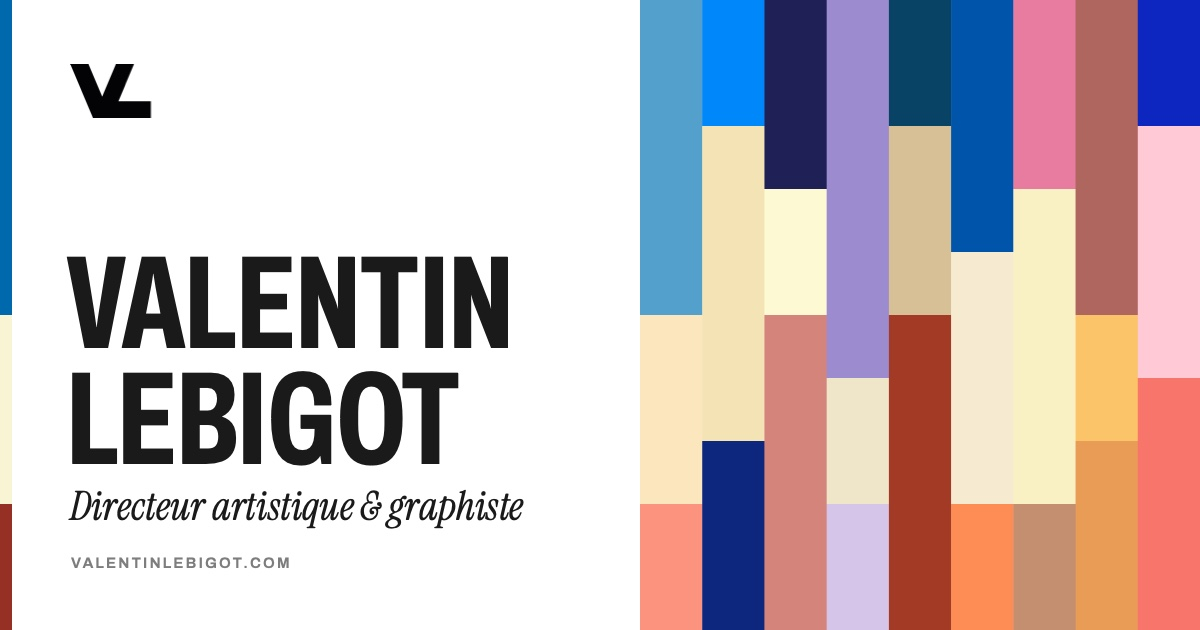
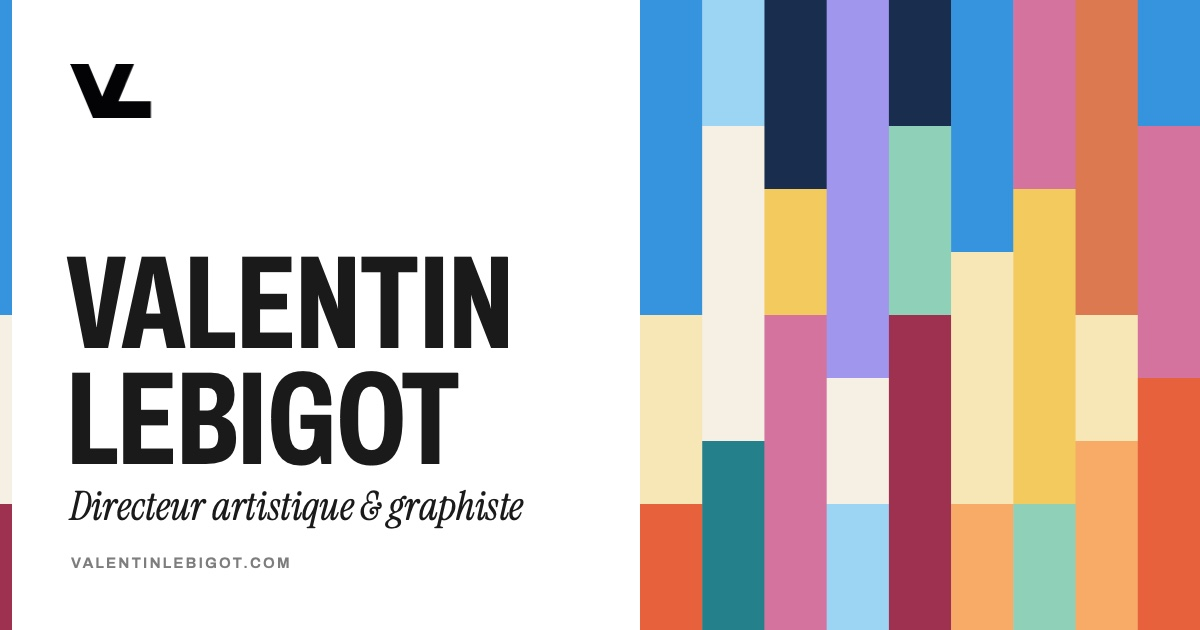
Palette unique de 14 teintes (éditoriale) appliquée à tout le site
- Une seule palette pour l'intro, le spectre, les rails et les lignes
- Trois teintes fortes par projet, jamais deux teintes identiques côte à côte
- Ordre des teintes et position des teintes claires tirés au hasard
- Image de partage régénérée

diff --git a/js/main.js b/js/main.js
@@ -7,71 +7,95 @@
   const v = (name, poster) => ({ video: A + 'video/' + name, poster: A + 'img/' + poster });
   const i = name => A + 'img/' + name;
 
+  /* Palette du site : 15 teintes, les seules utilisées partout (intro, projets, lignes, rail). */
+  const T = {
+    encre: '#14213d',   // Bleu encre
+    ceruleen: '#2c7fd6',   // Céruléen
+    sky: '#8ccbf0',   // Sky blue
+    canard: '#1f6f78',   // Bleu canard
+    sauge: '#7fc8a9',   // Vert d’eau
+    lavande: '#8f7fe8',   // Lavande
+    prunerose: '#c95b8e',   // Prune rose
+    vermillon: '#e04a2f',   // Vermillon
+    grenat: '#8b1e3f',   // Grenat
+    sienne: '#d2643f',   // Sienne brûlée
+    abricot: '#f39a54',   // Abricot
+    safran: '#efc04b',   // Safran
+    paille: '#f5e3a8',   // Paille
+    creme: '#f3ebdc',   // Crème
+  };
+
   const PROJECTS = [
     {
-      id: 'collection-produit', year: '2020', role: 'Branding & Design global', colors: ['#448ec0', '#f9e1af', '#f87e6c'],
+      id: 'collection-produit', year: '2020', role: 'Branding & Design global', colors: [T.ceruleen, T.paille, T.vermillon],
       title: 'Collection Produit', sub: 'Valentin Lebigot',
       desc: 'Depuis 2020 à Paris, Valentin Lebigot crée des objets 3D recyclables au design audacieux et coloré. Chaque pièce reflète une démarche responsable, pensée pour une clientèle sensible au design contemporain et éthique.',
       tags: ['designproduits', 'directionartistiques', 'impression3D', 'objetsgraphiques', 'packaging', 'designresponsable'],
       media: [i('21-10-2025_Portfolio_graphisme5.jpg'), i('21-10-2025_Portfolio_graphisme.jpg'), i('21-10-2025_Portfolio_graphisme4.jpg'), i('21-10-2025_Portfolio_graphisme2.jpg'), v('Composition-5.mp4', 'Composition-5.jpg'), i('21-10-2025_Portfolio_graphisme3.jpg')],
     },
     {
-      id: 'strategie-communication', year: '2020', role: 'Graphisme & Social media', colors: ['#006ff7', '#f1dfa6', '#0c186c'],
+      id: 'strategie-communication', year: '2020', role: 'Graphisme & Social media', colors: [T.sky, T.creme, T.canard],
       title: 'Stratégie & communication', sub: 'Valentin Lebigot',
       desc: 'Univers digital pensé comme un ensemble cohérent : site e-shop WordPress, UX/UI, réseaux sociaux, newsletters et Ads. Chaque point de contact prolonge l’identité visuelle et assure une expérience de marque claire et continue.',
       tags: ['socialMedia', 'newsletter', 'ads', 'eshop', 'contentdesign', 'brandidentity'],
       media: [i('21-10-2025_Portfolio_graphisme20.jpg'), i('21-10-2025_Portfolio_graphisme19.jpg'), v('Composition-1_2.mp4', 'Composition-1_2.jpg')],
     },
     {
-      id: 'face-a-face-marker', year: '2026', role: 'Direction artistique', colors: ['#171644', '#fcf9c8', '#ca6f68'],
+      id: 'face-a-face-marker', year: '2026', role: 'Direction artistique', colors: [T.encre, T.safran, T.prunerose],
       title: 'Face à Face 2026 – 2027', sub: 'Face à Face Paris',
       desc: 'Pour la campagne 2026/2027 de <a href="https://www.faceaface-paris.com/" target="_blank" rel="noopener">FACE A FACE Paris</a>, j’ai accompagné les équipes dans la direction artistique autour de MARKER, une collection inspirée par le geste du dessin, les lignes franches et les couleurs électriques. Un univers kraft, surréaliste et onirique, imaginé pour souligner l’audace des montures. Photographies et vidéos réalisées par <a href="https://www.pigmaparis.com/" target="_blank" rel="noopener">PIGMA Paris</a>.',
       tags: ['artdirection', 'campaign', 'eyewear', 'design', 'setdesign', 'branding'],
       media: [i('08-09-2026_002.jpg'), i('08-09-2026_003.jpg'), v('Composition-1.mp4', 'Composition-1.avif'), i('08-09-2026_004.jpg'), i('08-09-2026_006.jpg'), i('08-09-2026_005.jpg')],
     },
     {
-      id: 'ripple', year: '2026', role: 'Retail & PLV', colors: ['#8a74c4', '#e9dfbd', '#cbb6e2'],
+      id: 'ripple', year: '2026', role: 'Retail & PLV', colors: [T.lavande, T.creme, T.sky],
       title: 'Ripple', sub: 'Face à Face Paris',
       desc: 'Pour la nouvelle collection optique et solaire de <a href="https://www.faceaface-paris.com/fr" target="_blank" rel="noopener">FACE A FACE Paris</a>, j’ai collaboré avec la marque à la création de RIPPLE, un dispositif PLV sur-mesure destiné aux opticiens partenaires. Réalisés en impression 3D, ces présentoirs reprennent les codes graphiques et les couleurs de la collection pour mettre en valeur les montures en point de vente.',
       tags: ['retail', 'PLV', 'eyewear', 'design', '3Dprinting', 'visualmerchandising', 'branding'],
       media: [i('30-04-2026_dossier_002.jpg'), i('B.jpg'), i('B2.jpg'), i('30-04-2026_dossier_0011.jpg'), i('30-04-2026_dossier_007.jpg'), i('30-04-2026_dossier_005.jpg')],
     },
     {
-      id: 'brasserie-le-s', year: '2025', role: 'Hospitality', colors: ['#0b3252', '#cdb284', '#8f291c'],
+      id: 'brasserie-le-s', year: '2025', role: 'Hospitality', colors: [T.encre, T.sauge, T.grenat],
       title: 'Collection Brasserie le S', sub: 'Servier Monde',
       desc: 'Collection sur mesure d’objets de table conçue pour la Brasserie Le S pour <a href="https://servier.com/" target="_blank" rel="noopener">Servier Monde</a> à Suresnes. Développée avec <a href="https://www.snef.fr/wattdb/" target="_blank" rel="noopener">Watt</a> Design &amp; Build, elle prolonge l’univers architectural à travers des pièces sculpturales et fonctionnelles.',
       tags: ['designproduit', 'objetsgraphiques', 'directionartistique', 'impression3D', 'architectureInterieure', 'design&build'],
       media: [i('21-10-2025_Portfolio_graphisme13.jpg'), i('21-10-2025_Portfolio_graphisme15.jpg'), i('10-03-2026_00.jpg'), i('21-10-2025_Portfolio_graphisme14.jpg'), i('21-10-2025_Portfolio_graphisme16.jpg')],
     },
     {
-      id: 'surval-4-all', year: '2024', role: 'Office design', colors: ['#004099', '#f4e6c6', '#fa7844'],
+      id: 'surval-4-all', year: '2024', role: 'Office design', colors: [T.ceruleen, T.paille, T.abricot],
       title: 'Collection SURVAL 4\u00A0ALL', sub: 'Servier Monde',
       desc: 'Produits de bureau modulaires et colorés développés pour les nouveaux locaux de <a href="https://servier.com/" target="_blank" rel="noopener">Servier Monde</a> à Suresnes, en collaboration avec <a href="https://www.geniedeslieux.com/" target="_blank" rel="noopener">Génies des Lieux</a>, pensés pour des espaces de travail fonctionnels et dynamiques.',
       tags: ['designproduit', 'objetsgraphiques', 'directionartistique', 'impression3D', 'officedesign', 'designmodulaire'],
       media: [i('21-10-2025_Portfolio_graphisme10.jpg'), i('21-10-2025_Portfolio_graphisme11.jpg'), i('21-10-2025_Portfolio_graphisme12.jpg')],
     },
     {
-      id: 'born-to-be-woow', year: '2026', role: 'Branding & Retail', colors: ['#e0628f', '#f7efb7', '#b67c5d'],
+      id: 'born-to-be-woow', year: '2026', role: 'Branding & Retail', colors: [T.prunerose, T.safran, T.sauge],
       title: 'Born to be WOOW', sub: 'WOOW x Krys Group',
       desc: 'Pour les 60 ans de Krys Group, WOOW eyewear est mis à l’honneur à travers un kit PLV vitrine immersif dédié aux années 80. Le dispositif décline bannières, stickers, countercards et présentoirs autour de l’univers pop et coloré initié par <a href="https://designeyeweargroup.com/fr/" target="_blank" rel="noopener">DEGREE Eyewear Group</a> et mis en scène par l’agence <a href="https://www.pigmaparis.com/" target="_blank" rel="noopener">PIGMA Paris</a>.',
       tags: ['retail', 'PLV', 'scénographie', 'vitrine', 'branding', 'identité', 'visualmerchandising'],
       media: [v('Fond-05-02-2026_ai-logo-Woow.mp4', 'Fond-05-02-2026_ai-logo-Woow.jpg'), i('01.jpg'), i('03-02-2026_recherches-Krys-x-Woow-13.jpg'), v('FOND-21-04-2026_jeu-echec.mp4', 'FOND-21-04-2026_jeu-echec.jpg'), i('00.jpg'), i('FOND-21-04-2026_woow-2.jpg')],
     },
     {
-      id: 'scenographie-retail', year: '2025', role: 'Événementiel & Set design', colors: ['#9e514c', '#f8b956', '#e18a45'],
+      id: 'scenographie-retail', year: '2025', role: 'Événementiel & Set design', colors: [T.sienne, T.paille, T.abricot],
       title: 'Scénographie & Retail', sub: 'Degree Concept Store — PDW 2025',
       desc: 'Scénographie pop et sculpturale conçue pour les 30 ans de <a href="https://www.faceaface-paris.com/fr" target="_blank" rel="noopener">FACE A FACE</a> lors de la Paris Design Week 2025. Le projet met en dialogue design, couleur et identité pour révéler le potentiel sculptural des solaires.',
       tags: ['retail', 'scénographie', 'impression3D', 'directionartistique', 'setdesign', 'evenementiel'],
       media: [i('21-10-2025_Portfolio_graphisme6.jpg'), i('21-10-2025_Portfolio_graphisme7.jpg'), i('21-10-2025_Portfolio_graphisme8.jpg')],
     },
     {
-      id: 'trobos', year: '2020', role: 'Design produit & Packaging', colors: ['#0a0ab1', '#fdbdcc', '#f35d58'],
+      id: 'trobos', year: '2020', role: 'Design produit & Packaging', colors: [T.ceruleen, T.prunerose, T.vermillon],
       title: 'Trobos', sub: 'Papier Merveille x Valentin Lebigot',
       desc: 'TROBOS est une collection de trombones à cliper, conçue comme un objet graphique de papeterie contemporain, née de la collaboration avec la marque lyonnaise <a href="https://www.papiermerveille.com/fr/" target="_blank" rel="noopener">Papier Merveille</a>.',
       tags: ['designproduit', 'packaging', 'designresponsable', 'objetsgraphiques', 'graphisme', 'impression3D'],
       media: [i('21-10-2025_Portfolio_graphisme24.jpg'), i('21-10-2025_Portfolio_graphisme23.jpg'), v('Composition-4.mp4', 'Composition-4.jpg'), i('16-12-2025_slide-00.jpg'), i('16-12-2025_slide-002.jpg')],
     },
   ];
+
+  // l'ordre des 3 teintes de chaque projet change à chaque visite (spectre, rail, transitions…) :
+  // la teinte claire n'est pas toujours au milieu
+  const shuffle3 = a => { a = a.slice(); for (let i = a.length - 1; i > 0; i--) { const j = Math.floor(Math.random() * (i + 1)); [a[i], a[j]] = [a[j], a[i]]; } return a; };
+  // (deux projets voisins n'ont jamais de teinte en commun : aucune teinte identique ne se touche dans le spectre)
+  PROJECTS.forEach(p => (p.colors = shuffle3(p.colors)));
 
   const root = document.documentElement;
   const body = document.body;
@@ -175,12 +199,7 @@
   })();
 
   /* ---------- 4. Lignes colorées (intro + pied de page) ---------- */
-  const PALETTE = [
-    { c: '#0050a0', fam: 'bleu' }, { c: '#b7d0ef', fam: 'bleu' },
-    { c: '#f53216', fam: 'rouge' }, { c: '#82201c', fam: 'rouge' },
-    { c: '#fdf3b0', fam: 'clair' }, { c: '#f6f6f6', fam: 'clair' },
-    { c: '#c9a6fb', fam: 'lavande' }, { c: '#2b3a25', fam: 'vert' },
-  ];
+  const PALETTE = Object.entries(T).map(([name, c]) => ({ name, c, fam: {'encre': 'bleu', 'ceruleen': 'bleu', 'sky': 'bleu', 'canard': 'vert', 'sauge': 'vert', 'lavande': 'violet', 'prunerose': 'rose', 'vermillon': 'rouge', 'grenat': 'rouge', 'sienne': 'terre', 'abricot': 'orange', 'safran': 'jaune', 'paille': 'clair', 'creme': 'neutre'}[name] }));
   const lum = hex => {
     const x = [1, 3, 5].map(j => parseInt(hex.substr(j, 2), 16) / 255)
       .map(c => (c <= 0.03928 ? c / 12.92 : ((c + 0.055) / 1.055) ** 2.4));
@@ -193,6 +212,9 @@
     const colors = [];
     for (let k = 0; k < cols; k++) {
       const col = [];
+      // les teintes claires (crème, paille…) tombent à une position tirée au hasard,
+      // pas toujours au milieu : sinon un motif clair répétitif apparaît
+      const lightSlot = Math.floor(Math.random() * 3);
       for (let j = 0; j < 3; j++) {
         const neigh = [...(k > 0 ? colors[k - 1] : []), ...(j > 0 ? [col[j - 1]] : [])];
         const ok = PALETTE.filter(p => !neigh.some(n => n.fam === p.fam));
@@ -200,7 +222,8 @@
         let best = pool[0], bestScore = -Infinity;
         pool.forEach(p => {
           const contrast = neigh.length ? Math.min(...neigh.map(n => Math.abs(p.l - n.l))) : 0.5;
-          const s = contrast * 1.2 - usage.get(p.c) / cols * 3 + Math.random() * 0.35;
+          const lightBias = p.l > 0.4 ? (j === lightSlot ? 0.5 : -0.5) : 0;
+          const s = contrast * 0.8 + lightBias - usage.get(p.c) / cols * 3 + Math.random() * 0.45;
           if (s > bestScore) { bestScore = s; best = p; }
         });
         col.push(best); usage.set(best.c, usage.get(best.c) + 1);
@@ -285,7 +308,7 @@
   const setActive = sec => {
     if (sec === current) return;
     current = sec;
-    const cols = (sec ? sec.dataset.colors : '#02549d,#f7f4ca,#82201c').split(',');
+    const cols = (sec ? sec.dataset.colors : [T.ceruleen, T.creme, T.grenat].join(',')).split(',');
     ['--c1', '--c2', '--c3'].forEach((v, k) => root.style.setProperty(v, cols[k]));
     const key = !sec ? '' : sec.classList.contains('work') ? 'projets' : sec.id;
     navLinks.forEach(a => a.classList.toggle('is-active', a.dataset.nav === key));

diff --git a/index.html b/index.html
@@ -17,7 +17,7 @@
   <meta property="og:title" content="Valentin Lebigot — Direction artistique, design graphique & d'espace">
   <meta property="og:description" content="Directeur artistique et graphiste basé à Paris : identités qui prennent vie dans l'espace — branding, PLV, retail, scénographie, design produit.">
   <meta property="og:url" content="https://valentinlebigot.com/">
-  <meta property="og:image" content="https://valentinlebigot.com/assets/og-image.jpg">
+  <meta property="og:image" content="https://valentinlebigot.com/assets/og-image.jpg?v=7">
   <meta property="og:image:width" content="1200">
   <meta property="og:image:height" content="630">
   <meta property="og:image:alt" content="Valentin Lebigot — Directeur artistique &amp; graphiste">
@@ -43,8 +43,8 @@
   }
   </script>
   <link rel="preload" href="/assets/fonts/archivo-latin.woff2" as="font" type="font/woff2" crossorigin>
-  <link rel="stylesheet" href="css/fonts.css?v=4.8">
-  <link rel="stylesheet" href="css/style.css?v=4.8">
+  <link rel="stylesheet" href="css/fonts.css?v=5.6">
+  <link rel="stylesheet" href="css/style.css?v=5.6">
 </head>
 <body class="is-loading">
 
@@ -94,7 +94,7 @@
     <div id="projets"></div>
 
     <!-- ============ À PROPOS ============ -->
-    <section class="about" id="a-propos" data-colors="#02549d,#f7f4ca,#82201c" data-label="À propos">
+    <section class="about" id="a-propos" data-colors="#2c7fd6,#f3ebdc,#8b1e3f" data-label="À propos">
       <div class="about__grid">
         <figure class="about__photo shot"><img src="assets/img/11-03-2026_02.jpg" alt="Portrait de Valentin Lebigot" loading="lazy"></figure>
         <div class="about__body">
@@ -180,7 +180,7 @@
     </section>
 
     <!-- ============ CONTACT ============ -->
-    <section class="contact" id="contact" data-colors="#02549d,#f7f4ca,#82201c" data-label="Contact">
+    <section class="contact" id="contact" data-colors="#2c7fd6,#f3ebdc,#8b1e3f" data-label="Contact">
       <div class="contact__inner">
         <p class="label rv">Contact</p>
         <h2 class="contact__title">
@@ -200,6 +200,6 @@
     </section>
   </main>
 
-  <script src="js/main.js?v=4.9"></script>
+  <script src="js/main.js?v=5.6"></script>
 </body>
 </html>

diff --git a/404.html b/404.html
@@ -23,9 +23,9 @@
     /* Les trois barres colorées, comme sur le site */
     .bars { display: flex; flex-direction: column; width: 12px; flex: none; }
     .bars span { flex: 1; transform-origin: top; animation: grow 1.1s cubic-bezier(.65,0,.35,1) both; }
-    .bars span:nth-child(1) { background: #02549d; flex-grow: 5; }
-    .bars span:nth-child(2) { background: #f7f4ca; flex-grow: 3; animation-delay: .12s; }
-    .bars span:nth-child(3) { background: #82201c; flex-grow: 2; animation-delay: .24s; }
+    .bars span:nth-child(1) { background: #2c7fd6; flex-grow: 5; }
+    .bars span:nth-child(2) { background: #f3ebdc; flex-grow: 3; animation-delay: .12s; }
+    .bars span:nth-child(3) { background: #8b1e3f; flex-grow: 2; animation-delay: .24s; }
     @keyframes grow { from { transform: scaleY(0); } }
 
     main {
@@ -67,7 +67,7 @@
       border-radius: 999px;
       transition: transform .3s cubic-bezier(.22,.9,.24,1), background .3s;
     }
-    .btn:hover { background: #02549d; transform: translateX(4px); }
+    .btn:hover { background: #2c7fd6; transform: translateX(4px); }
     .btn span { transition: transform .3s cubic-bezier(.22,.9,.24,1); }
     .btn:hover span { transform: translateX(3px); }
     .note { margin-top: 22px; font-size: 13px; color: #a3a3a3; }

diff --git a/mentions-legales/index.html b/mentions-legales/index.html
@@ -24,9 +24,9 @@
     /* rail tricolore, comme sur les projets */
     .rail { position: fixed; left: 0; top: 0; bottom: 0; width: var(--rail); display: flex; flex-direction: column; }
     .rail i { flex: 1; }
-    .rail i:nth-child(1) { background: #02549d; flex-grow: 5; }
-    .rail i:nth-child(2) { background: #f7f4ca; flex-grow: 3; }
-    .rail i:nth-child(3) { background: #82201c; flex-grow: 2; }
+    .rail i:nth-child(1) { background: #2c7fd6; flex-grow: 5; }
+    .rail i:nth-child(2) { background: #f3ebdc; flex-grow: 3; }
+    .rail i:nth-child(3) { background: #8b1e3f; flex-grow: 2; }
     header { display: flex; align-items: center; justify-content: space-between; padding: 22px var(--pad) 22px calc(var(--rail) + var(--pad)); }
     header img { width: 44px; height: auto; display: block; }
     header a.back { font-size: 14px; font-weight: 600; text-decoration: none; color: #737373; }

diff --git a/css/style.css b/css/style.css
@@ -4,12 +4,12 @@
    un spectre de projets à l'accueil, puis un rail par projet.
    ========================================================= */
 
-@property --c1 { syntax: "<color>"; inherits: true; initial-value: #02549d; }
-@property --c2 { syntax: "<color>"; inherits: true; initial-value: #f7f4ca; }
-@property --c3 { syntax: "<color>"; inherits: true; initial-value: #82201c; }
+@property --c1 { syntax: "<color>"; inherits: true; initial-value: #2c7fd6; }
+@property --c2 { syntax: "<color>"; inherits: true; initial-value: #f3ebdc; }
+@property --c3 { syntax: "<color>"; inherits: true; initial-value: #8b1e3f; }
 
 :root {
-  --c1: #02549d; --c2: #f7f4ca; --c3: #82201c;
+  --c1: #2c7fd6; --c2: #f3ebdc; --c3: #8b1e3f;
   --ink: #141414;
   --ink-soft: #6a6a6a;
   --line: rgba(0, 0, 0, .1);
